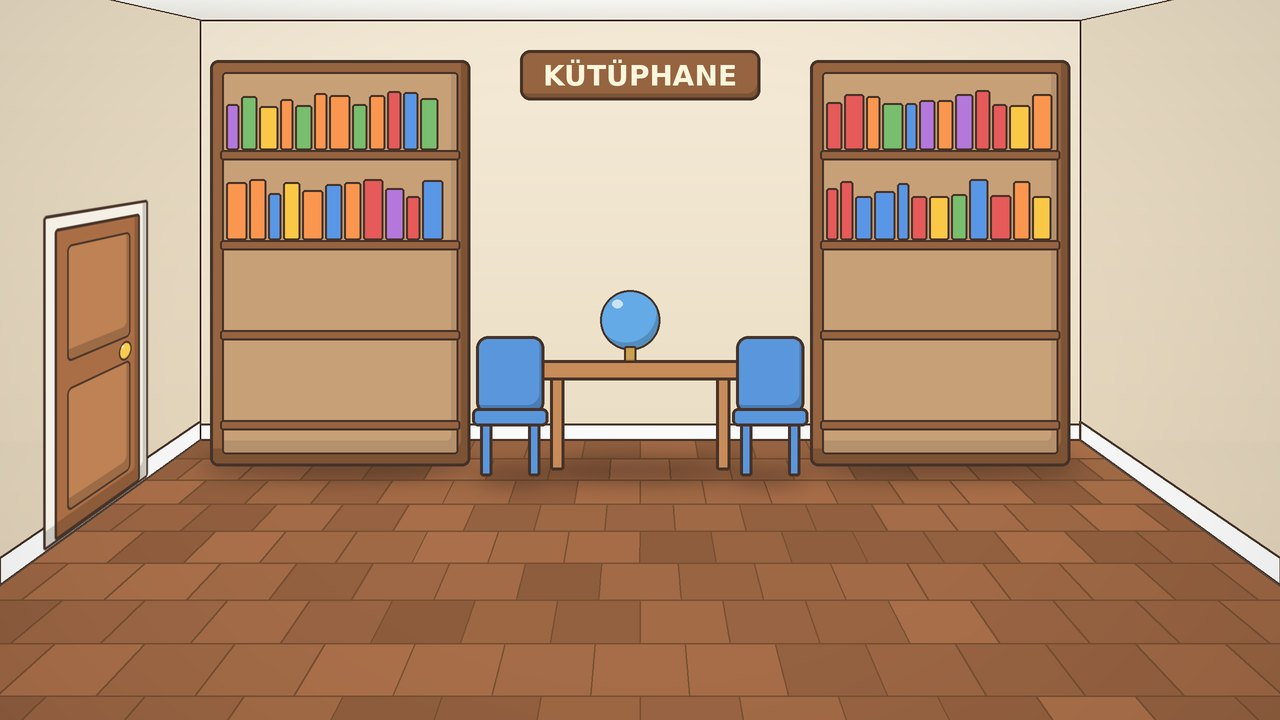
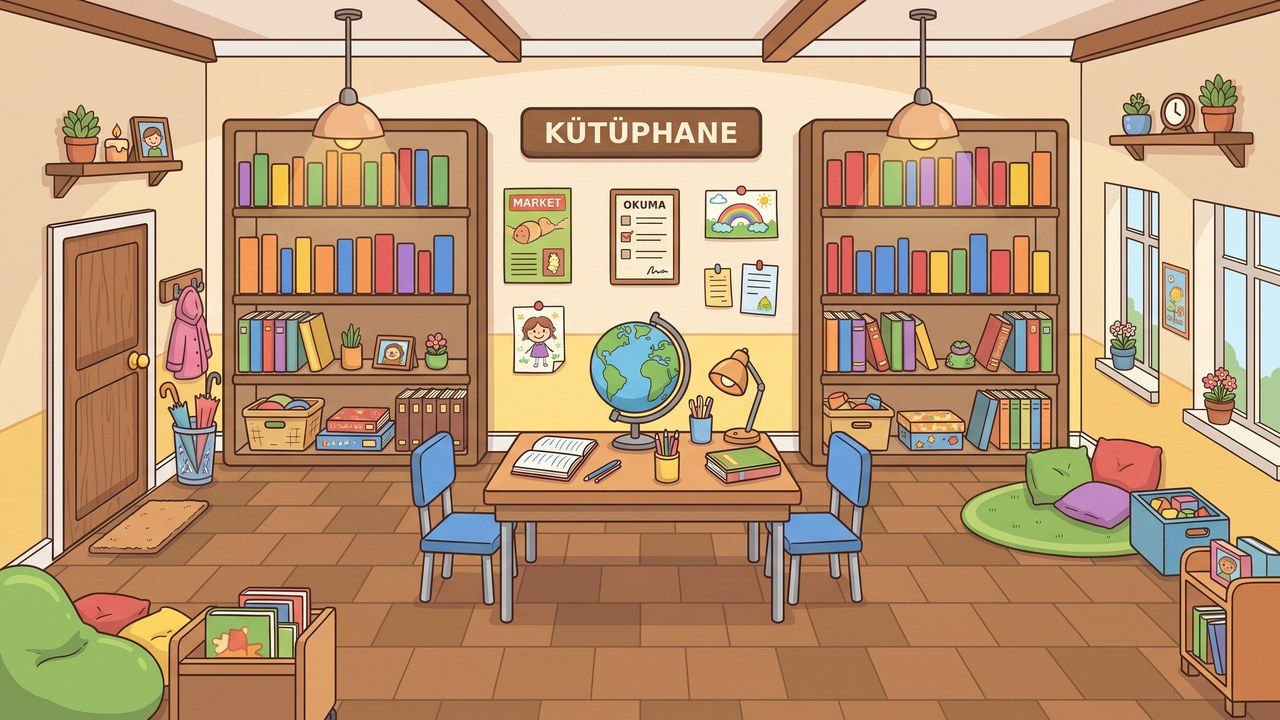
Kütüphane: yeni resim, raflarda kitaplar, masa, masa lambası, iki sandalye, minder ve puf
Lamba noktasına abajur: false seçeneği eklendi. Eğik masa lambasında
düz abajur çizilmez, sadece ışık halesi görünür.

Claude-Session: https://claude.ai/code/session_01FSkVF6b9FMUcpnurV8yuFZ

diff --git a/js/veri.js b/js/veri.js
@@ -529,21 +529,29 @@ window.OYUN_VERI = {
     },
     kutuphane: {
       ad: "Kütüphane", simge: "kutuphane",
-      resim: "cizimler/mekan/kutuphane.jpg", zemin: ZEMIN, giris: GIRIS_SOL,
-      kapilar: [{ ...KAPI_SOL, hedef: "dunya", yer: "kutuphane" }],
+      resim: "cizimler/mekan/kutuphane.jpg",
+      zemin: { ust: 470, alt: 705, sol: 30, sag: 1250, ufuk: { x: 640, y: 190 }, arka: { sol: 205, sag: 1075, y: 455 } },
+      giris: { x: 240, y: 600 },
+      kapilar: [{ x: 45, y: 210, w: 115, h: 345, hedef: "dunya", yer: "kutuphane" }],
       calisan: {
-        meslek: "kutuphaneci", x: 640, y: 520,
+        meslek: "kutuphaneci", x: 285, y: 600,
         selam: "Hoş geldiniz! Hangi kitabı arıyorsunuz?",
         sozler: ["Kütüphanede sessiz olalım, şşş.", "Masal kitapları şu rafta.", "Kitabı iki hafta sonra geri getirin.", "Kütüphane kartınız var mı?", "Okumak çok güzel, değil mi?"],
       },
       noktalar: [
+        // İki kitaplığın orta rafı. Alınan kitabın yerine yenisi gelir.
         {
           tur: "raf", raflar: [
-            { sablon: "kitap", x: 260, y: 330 }, { sablon: "kitap", x: 340, y: 330 }, { sablon: "kitap", x: 420, y: 330 },
-            { sablon: "kitap", x: 860, y: 420 }, { sablon: "kitap", x: 940, y: 420 }, { sablon: "kitap", x: 1020, y: 420 },
+            { sablon: "kitap", x: 430, y: 205 }, { sablon: "kitap", x: 395, y: 295 }, { sablon: "kitap", x: 450, y: 295 },
+            { sablon: "kitap", x: 870, y: 295 }, { sablon: "kitap", x: 950, y: 295 }, { sablon: "kitap", x: 1030, y: 295 },
           ],
         },
-        sandalye(510, 476), sandalye(770, 476),
+        { tur: "tezgah", x: 485, y: 430, w: 315, h: 75, ust: 478 },
+        { tur: "lamba", x: 705, y: 345, w: 65, h: 95, isik: { x: 725, y: 388 }, abajur: false },
+        sandalye(460, 600), sandalye(822, 600),
+        // Sağdaki minderler ve soldaki yeşil puf.
+        { tur: "otur", x: 1020, y: 440, w: 160, h: 110, oturma: { x: 1095, y: 540 } },
+        { tur: "otur", x: 0, y: 565, w: 165, h: 140, oturma: { x: 80, y: 698 } },
       ],
     },
     pastane: {

diff --git a/js/oyun.js b/js/oyun.js
@@ -178,7 +178,7 @@ k.scene("mekan", (mekanId) => {
       o.isik = k.add([k.pos(n.isik.x, n.isik.y), k.z(-87)]);
       o.isik.add([k.circle(170), k.anchor("center"), k.color(255, 235, 150), k.opacity(0.18)]);
       o.isik.add([k.circle(80), k.anchor("center"), k.color(255, 240, 170), k.opacity(0.3)]);
-      o.isik.add([k.polygon([k.vec2(-25, -18), k.vec2(25, -18), k.vec2(35, 18), k.vec2(-35, 18)]), k.color(255, 250, 210), k.outline(3, KALEM)]);
+      if (n.abajur !== false) o.isik.add([k.polygon([k.vec2(-25, -18), k.vec2(25, -18), k.vec2(35, 18), k.vec2(-35, 18)]), k.color(255, 250, 210), k.outline(3, KALEM)]);
       o.isik.hidden = !dunya.acik[o.anahtar];
     }
     if (n.tur === "ocak") {
